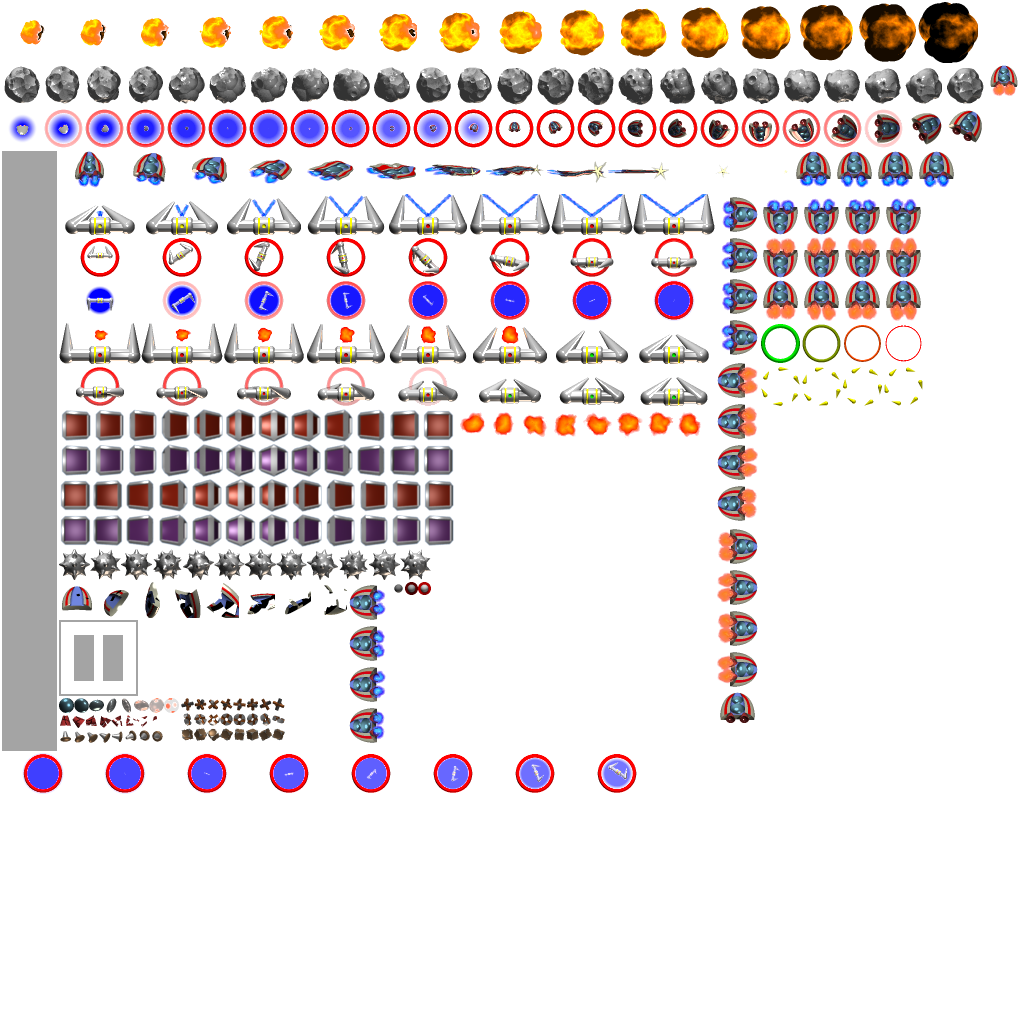
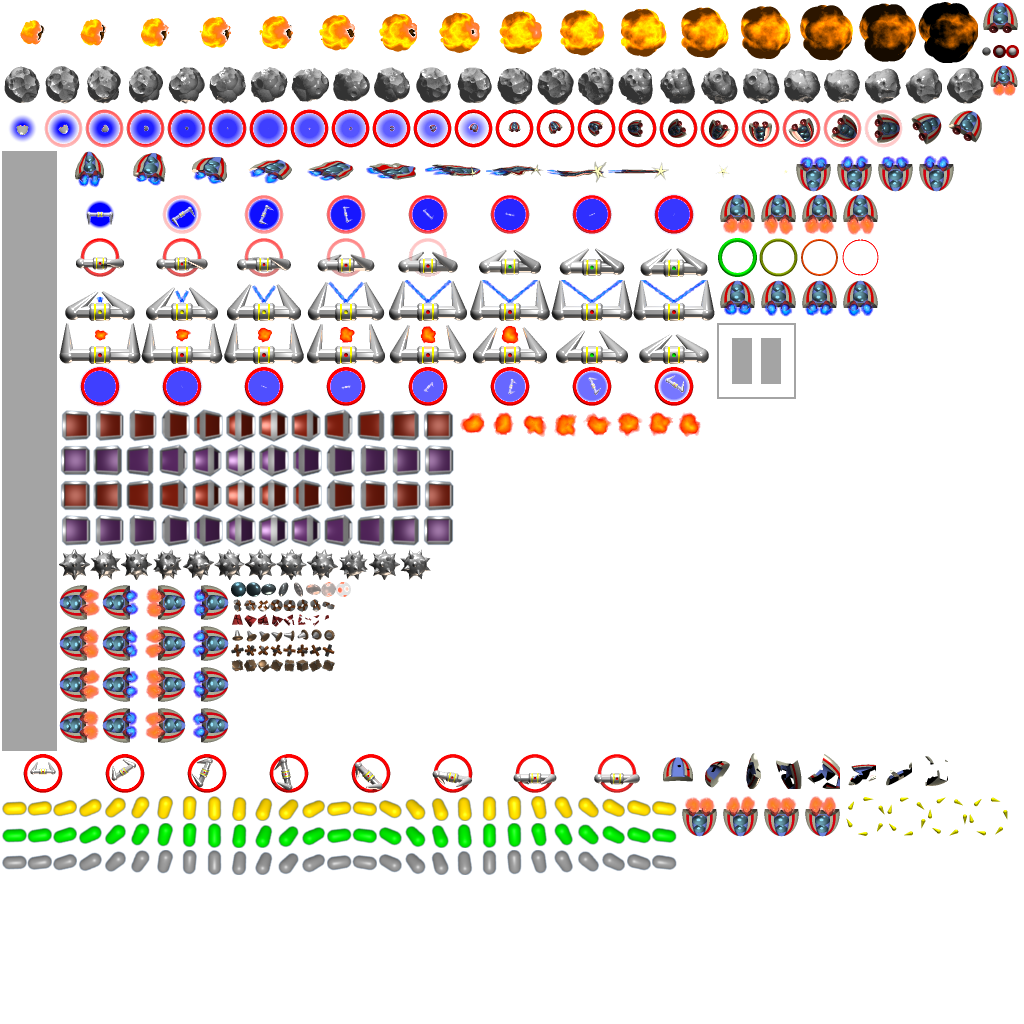
Added power up that disables fireballs

diff --git a/GLView.m b/GLView.m
@@ -24,6 +24,7 @@
 #import "Guardian.h"
 #import "Fireball.h"
 #import "Ship.h"
+#import "PowerUpFireballs.h"
 
 @implementation GLView
 
@@ -61,6 +62,7 @@
         cubes = [[NSMutableArray alloc] init];
         spikeMines = [[NSMutableArray alloc] init];
         asteroids = [[NSMutableArray alloc] init];
+        powerUps = [[NSMutableArray alloc] init];
 
         currentGrid = 0;
         numberOfGrids = 3;
@@ -107,6 +109,7 @@
     [cubes release];
     [spikeMines release];
     [asteroids release];
+    [powerUps release];
     [ship release];
     [super dealloc];
 }
@@ -124,6 +127,7 @@
     [cubes removeAllObjects];
     [spikeMines removeAllObjects];
     [asteroids removeAllObjects];
+    [powerUps removeAllObjects];
     [ship release];
     trackingTime = FALSE;
     beatTimer = FALSE;
@@ -132,7 +136,7 @@
     timerBonus = FALSE;
     timerBonusScore = 0;
     levelPauseAndInitWait = 1.0;
-    asteroidTimer = 0;
+    asteroidTimer = powerUpTimer = 0;
 
     // [row][col]
 //        { ' ', ' ', ' ', ' ', ' ', ' ', ' ', ' ', ' '},
@@ -268,6 +272,11 @@
                         [asteroid release];
                     }
 
+                    powerUpLaunchDelay = 0.5;
+                    PowerUpFireballs *p = [[PowerUpFireballs alloc] initLaunchLocationWithSpeed:50];
+                    [powerUps addObject:p];
+                    [p release];
+
                     break;
 
                 default:
@@ -346,6 +355,17 @@
     for (Asteroid *a in asteroids) {
         a.state = EntityState_Dead;
     }
+    for (TraversingEntity *p in powerUps) {
+        p.state = EntityState_Dead;
+    }
+}
+
+- (void)powerUpFireballs {
+    for (Guardian *g in guardians) {
+        for (Fireball *f in g.fireballs) {
+            f.state = EntityState_Idle;
+        }
+    }
 }
 
 - (void)launchAsteroidWithDelta:(float)aDelta; {
@@ -361,6 +381,20 @@
             }
         }
         asteroidTimer = 0;
+    }
+}
+
+- (void)launchPowerUpWithDelta:(float)aDelta {
+    powerUpTimer += aDelta;
+    if (powerUpTimer > powerUpLaunchDelay) {
+        for (TraversingEntity *p in powerUps) {
+            if (p.state == EntityState_Idle) {
+                [p initLaunchLocationWithSpeed:50];
+                p.state = EntityState_Alive;
+                return;
+            }
+        }
+        powerUpTimer = 0;
     }
 }
 
@@ -487,6 +521,9 @@
             for (Asteroid *a in asteroids) {
                 [a updateWithDelta:aDelta];
             }
+            for (TraversingEntity *p in powerUps) {
+                [p updateWithDelta:aDelta];
+            }
             if (CACurrentMediaTime() - lastTimeInLoop < 1.0) {
                 return;
             }
@@ -503,6 +540,7 @@
         case SceneState_Running:
             [self updateTimerWithDelta:aDelta];
             [self launchAsteroidWithDelta:aDelta];
+            [self launchPowerUpWithDelta:aDelta];
             [starfield updateWithDelta:aDelta];
             for (Guardian *g in guardians) {
                 [g updateWithDelta:aDelta];
@@ -532,6 +570,12 @@
                     [ship checkForCollisionWithEntity:a];
                 }
             }
+            for (TraversingEntity *p in powerUps) {
+                [p updateWithDelta:aDelta];
+                if (p.state == EntityState_Alive && ship.state != EntityState_Dead) {
+                    [ship checkForCollisionWithEntity:p];
+                }
+            }
 
             [ship updateWithDelta:aDelta];
             if (ship.state == EntityState_Dead &&
@@ -554,6 +598,7 @@
 #pragma mark SceneState_GameOver
         case SceneState_GameOver:
             [self launchAsteroidWithDelta:aDelta];
+            [self launchPowerUpWithDelta:aDelta];
             [starfield updateWithDelta:aDelta];
             for (Guardian *g in guardians) {
                 [g updateWithDelta:aDelta];
@@ -569,6 +614,9 @@
             }
             for (Asteroid *a in asteroids) {
                 [a updateWithDelta:aDelta];
+            }
+            for (TraversingEntity *p in powerUps) {
+                [p updateWithDelta:aDelta];
             }
             break;
 
@@ -629,6 +677,9 @@
             for (Asteroid *a in asteroids) {
                 [a render];
             }
+            for (TraversingEntity *p in powerUps) {
+                [p render];
+            }
             [self updateStatus];
             for (Guardian *g in guardians) {
                 [g render];
@@ -651,6 +702,9 @@
             }
             for (Asteroid *a in asteroids) {
                 [a render];
+            }
+            for (TraversingEntity *p in powerUps) {
+                [p render];
             }
             [self updateStatus];
             for (Guardian *g in guardians) {

diff --git a/PowerUpFireballs.m b/PowerUpFireballs.m
@@ -1,0 +1,36 @@
+//
+//  PowerUpFireballs.m
+//  CubeStorm
+//
+//  Created by Todd Steinackle on 4/7/11.
+//  Copyright 2011 The No Quarter Arcade. All rights reserved.
+//
+
+#import "PowerUpFireballs.h"
+#import "GLView.h"
+#import "SoundManager.h"
+#import "Animation.h"
+#import "CubeStormAppDelegate.h"
+
+
+@implementation PowerUpFireballs
+
+- (id)initLaunchLocationWithSpeed:(CGFloat)speed {
+    width = 25;
+    height = 25;
+    self = [super initLaunchLocationWithSpeed:speed];
+    if (self != nil) {
+        float delay = 0.09f;
+        frames = 27;
+        animation = [[Animation alloc] init];
+        [self setupAnimation:animation spriteSheet:@"power_up_fireballs.png" animationDelay:delay numFrames:frames];
+
+        collisionWidth = appDelegate.widthScaleFactor * width * .65;
+        collisionHeight = appDelegate.heightScaleFactor * height * .65;
+        collisionXOffset = ((appDelegate.widthScaleFactor * width) - collisionWidth) / 2;
+        collisionYOffset = ((appDelegate.heightScaleFactor * height) - collisionHeight) / 2;
+    }
+    return self;
+}
+
+@end

diff --git a/GLView.h b/GLView.h
@@ -52,6 +52,7 @@ typedef enum {
     NSMutableArray *cubes;
     NSMutableArray *spikeMines;
     NSMutableArray *asteroids;
+    NSMutableArray *powerUps;
     Ship *ship;
     int cubeCount;
     int currentGrid, numberOfGrids;
@@ -71,6 +72,7 @@ typedef enum {
     int currentCubeValue;
     int playerLives;
     int maxAsteroids, asteroidLaunchOdds;
+    int powerUpLaunchOdds;
     bool gameContinuing;
     bool trackingTime, beatTimer, initingTimer, timerBonus;
 
@@ -78,6 +80,7 @@ typedef enum {
     CGFloat levelPauseAndInitWait;
 
     double asteroidLaunchDelay, asteroidTimer;
+    double powerUpLaunchDelay, powerUpTimer;
 
 }
 
@@ -100,6 +103,8 @@ typedef enum {
 - (void)handleSingleTap:(NSDictionary *)touches;
 - (void)updateTimerWithDelta:(float)aDelta;
 - (void)calculateTimerBonus;
-- (void)launchAsteroidWithDelta:(float)aDelta;;
+- (void)launchAsteroidWithDelta:(float)aDelta;
+- (void)launchPowerUpWithDelta:(float)aDelta;
+- (void)powerUpFireballs;
 
 @end

diff --git a/Ship.m b/Ship.m
@@ -17,6 +17,7 @@
 #import "SpikeMine.h"
 #import "Shield.h"
 #import "Asteroid.h"
+#import "PowerUpFireballs.h"
 
 
 @implementation Ship
@@ -360,6 +361,11 @@
             [self explode];
             return;
         }
+    }
+
+    if ([otherEntity isKindOfClass:[PowerUpFireballs class]]) {
+        otherEntity.state = EntityState_Idle;
+        [appDelegate.glView powerUpFireballs];
     }
 }
 

diff --git a/PowerUpFireballs.h b/PowerUpFireballs.h
@@ -1,0 +1,16 @@
+//
+//  PowerUpFireballs.h
+//  CubeStorm
+//
+//  Created by Todd Steinackle on 4/7/11.
+//  Copyright 2011 The No Quarter Arcade. All rights reserved.
+//
+
+#import "TraversingEntity.h"
+
+
+@interface PowerUpFireballs : TraversingEntity {
+
+}
+
+@end
